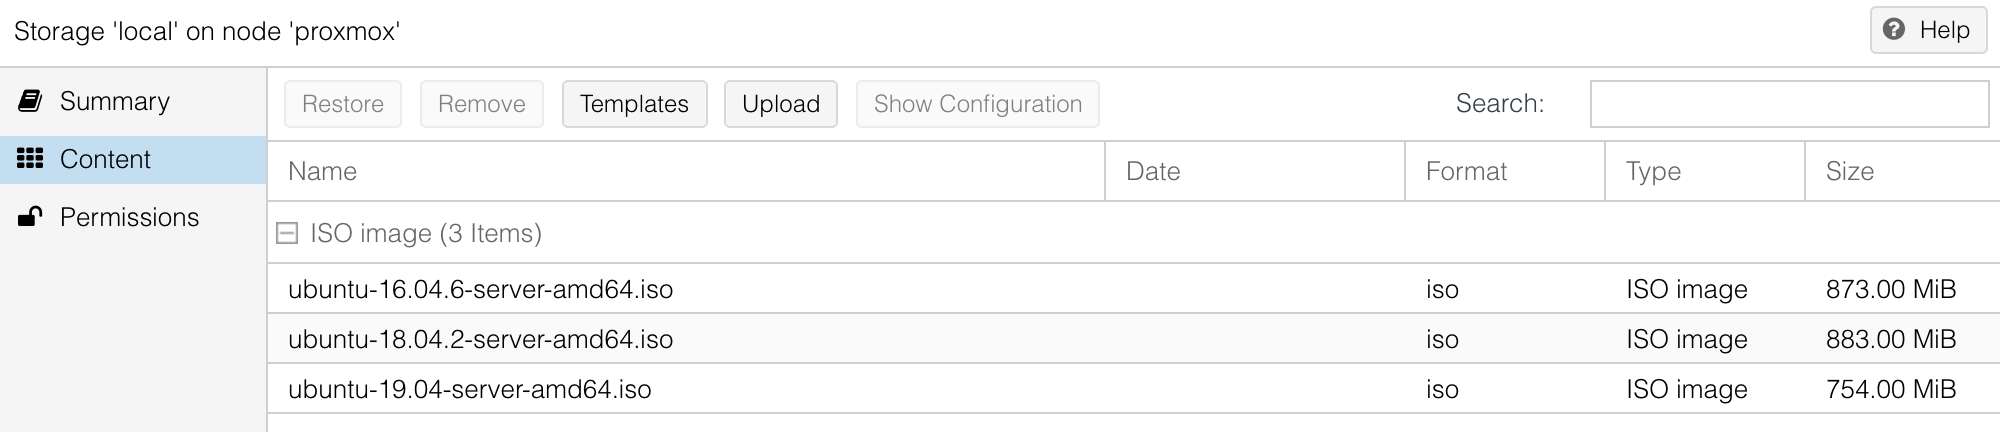
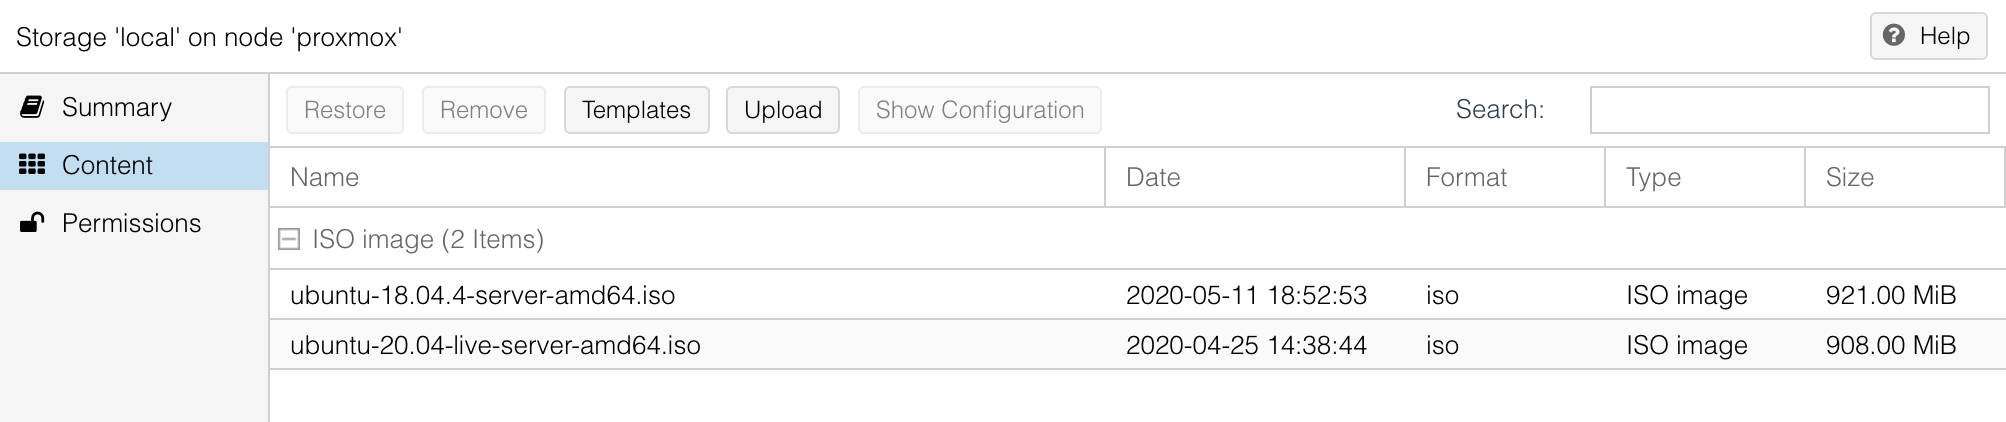
feat(blog): how to setup Ubuntu Server 20.04 article blog

diff --git a/content/posts/ubuntu-server-2004-image-packer-subiquity-for-proxmox.md b/content/posts/ubuntu-server-2004-image-packer-subiquity-for-proxmox.md
@@ -1,0 +1,349 @@
++++
+title = "Ubuntu Server 20.04 image with Packer and Subiquity for Proxmox"
+slug = "ubuntu-server-2004-image-packer-subiquity-for-proxmox"
+date = "2020-05-13T18:31:00+02:00"
+lastmod = "2020-05-13T18:31:00+02:00"
+categories = ["automation"]
+tags = ["ubuntu", "packer", "proxmox"]
++++
+
+Starting with 20.04, Ubuntu decided to update the live server installer to implement the [autoinstall specification](https://wiki.ubuntu.com/FoundationsTeam/AutomatedServerInstalls) to be able to fully automate the install process using only Subiquity. Subiquity is the new server installer (aka "ubiquity for servers") and aims to replace the previous classic system based on debian-installer.
+
+This article illustrates how to generate an Ubuntu Server 20.04 image template using Packer and only Subiquity on Proxmox.
+
+## Introduction
+
+Subiquity is only available in the `live` version of the image file (for instance `ubuntu-20.04-live-server-amd64.iso`). The previous system based on debian-installer (preseed files) has been discontinued and won't work anymore.
+
+{{< alert "info" "feather" >}}
+It's still possible to use debian-installer by downloading the legacy server image that can be found in a dedicated folder `ubuntu-legacy-server` on the official [Ubuntu images repository](http://cdimage.ubuntu.com/ubuntu-legacy-server/releases/20.04/release/).
+{{< /alert >}}
+
+## Subiquity
+
+This new live system is based on cloud-init and uses a YAML file to fully automate the installation process. It differs on several points from the previous system.
+
+- The syntax is much easier to understand (YAML vs debconf-set-selections format).
+- It's possible to have hybrid situations where some sections can be interactive and others answered automatically from the configuration.
+
+![Subiquity setup in Ubuntu Server 20.04](/images/ubuntu/subiquity.png)
+
+## Proxmox
+
+Packer requires a user account to perform actions on the Proxmox API. The following commands will create a new user account `packer@pve` with restricted permissions.
+
+```bash
+$ pveum useradd packer@pve
+$ pveum passwd packer@pve
+Enter new password: ****************
+Retype new password: ****************
+$ pveum roleadd Packer -privs "VM.Config.Disk VM.Config.CPU VM.Config.Memory Datastore.AllocateSpace Sys.Modify VM.Config.Options VM.Allocate VM.Audit VM.Console VM.Config.CDROM VM.Config.Network VM.PowerMgmt VM.Config.HWType VM.Monitor"
+$ pveum aclmod / -user packer@pve -role Packer
+```
+
+{{< alert "info" "at" >}}
+Proxmox `pveum` is available through a SSH connection or from the web shell accessible under the node parameters on the UI.
+{{< /alert >}}
+
+Download the Ubuntu Server 20.04 ISO from [the images repository](http://releases.ubuntu.com/20.04/). At the time of writing, the latest version available was `ubuntu-20.04-live-server-amd64.iso`. Put the ISO inside the `local` storage under the `ISO image` category.
+
+![Local storage in Proxmox](/images/proxmox/storage.png)
+
+## Packer
+
+### Builder configuration
+
+Packer will execute a workflow to create a new template that can be used later on to bootstrap new VMs quickly with a pre-based configuration already applied.
+
+Technically, Packer will start a VM in Proxmox, launch the installer from the boot command with a reference to the config file and convert the VM into a template at the end when the setup has been fully completed.
+
+```json
+{
+  "builders": [{
+    "type": "proxmox",
+    "proxmox_url": "https://proxmox.madalynn.xyz/api2/json",
+    "username": "{{ user `proxmox_username` }}",
+    "password": "{{ user `proxmox_password` }}",
+    "node": "proxmox",
+    "network_adapters": [{
+      "bridge": "vmbr0"
+    }],
+    "disks": [{
+      "type": "scsi",
+      "disk_size": "20G",
+      "storage_pool": "local-lvm",
+      "storage_pool_type": "lvm"
+    }],
+    "iso_file": "local:iso/ubuntu-20.04-live-server-amd64.iso",
+    "unmount_iso": true,
+    "boot_wait": "5s",
+    "memory": 1024,
+    "template_name": "ubuntu-20.04",
+    "http_directory": "http",
+    "boot_command": [
+      "<esc><wait><esc><wait><f6><wait><esc><wait>",
+      "<bs><bs><bs><bs><bs>",
+      "autoinstall ds=nocloud-net;s=http://{{ .HTTPIP }}:{{ .HTTPPort }}/ ",
+      "--- <enter>"
+    ],
+    "ssh_username": "madalynn",
+    "ssh_password": "madalynn"
+  }]
+}
+```
+
+The majority of the parameters are pretty straightforward to understand. Launch Packer with the following command.
+
+```bash
+$ packer build -var-file=secrets.json ubuntu.json
+```
+
+{{< alert "success" "user-secret" >}}
+The `var-file` parameter gives the flexibility to extract secrets (like credentials) and dynamic parameters to use the workflow to build several Ubuntu images. The minimum required should include Proxmox credentials from the user created previously.
+
+```json
+{
+  "proxmox_username": "packer@pve",
+  "proxmox_password": "fQk9f5Wd22aBgv"
+}
+```
+{{< /alert >}}
+
+Packer will start a HTTP server from the content of the `http` directory (with the `http_directory` parameter). This will allow Subiquity to fetch the cloud-init files remotely.
+
+{{< alert "warning" "bomb" >}}
+The live installer Subiquity uses more memory than debian-installer. The default value from Packer (`512M`) is not enough and will lead to weird kernel panic. Use `1G` as a minimum.
+
+```text
+---[ end Kernel panic - not syncing: No working init found.  Try passing init= option to kernel. See Linux Documentation/admin-guide/init.rst for guidance. ]---
+```
+
+![Ubuntu kernel panic](/images/ubuntu/kernel-panic.png)
+{{< /alert >}}
+
+The boot command tells cloud-init to start and uses the `nocloud-net` data source to be able to load the `user-data` and `meta-data` files from a remote HTTP endpoint. The additional `autoinstall` parameter will force Subiquity to perform destructive actions without asking confirmation from the user.
+
+```json
+{
+  ...
+  "boot_command": [
+    "<esc><wait><esc><wait><f6><wait><esc><wait>",
+    "<bs><bs><bs><bs><bs>",
+    "autoinstall ds=nocloud-net;s=http://{{ .HTTPIP }}:{{ .HTTPPort }}/ ",
+    "--- <enter>"
+  ],
+  ...
+}
+```
+
+### Provisioner configuration
+
+Cloud-init will take care of everything else. However, Packer will assume the provisioning is complete as soon as it is able to connect to the virtual machine via SSH. But at this time, the setup process won't be fully done. Packer should be told to wait until cloud-init is fully done.
+
+Technically speaking, the easiest solution is to wait until the `/var/lib/cloud/instance/boot-finished` file is present. Creating this file is the last thing cloud-init does. A bash script with a simple `while` will do the trick.
+
+```json
+{
+  "provisioners": [{
+    "type": "shell",
+    "inline": [
+      "while [ ! -f /var/lib/cloud/instance/boot-finished ]; do echo 'Waiting for cloud-init...'; sleep 1; done"
+    ]
+}
+```
+
+Provisioners will be executed directly on the VM once the SSH connection is available. Packer supports [a lot of provisioners](https://www.packer.io/docs/provisioners/index.html). For instance, it's possible in this step to launch an Ansible playbook or to configure the Chef client.
+
+## Cloud-init
+
+As Subitiquy uses cloud-init, the configuration should be present in two files, `user-data` and `meta-data`. `user-data` is the main config file that Subitiquity and cloud-init will use for the provisioning. `meta-data` is an addition file that can host some additional metadata in the [EC2 metadata service format](https://docs.aws.amazon.com/AWSEC2/latest/UserGuide/ec2-instance-metadata.html).
+
+{{< alert "warning" "hand-paper" >}}
+The `meta-data` file can be empty (and will be for Proxmox) but must be present, otherwise cloud-init will not start correctly.
+{{< /alert >}}
+
+```text
+http
+├── meta-data
+└── user-data
+```
+
+Cloud-init supports multiple formats for config files. YAML is the easiest to understand and will be used for the following snippets. Subiquity adds a new module `autoinstall` which hosts all the configuration necessary for the installation.
+
+```yaml
+#cloud-config
+autoinstall:
+  ...
+```
+
+{{< alert "danger" "exclamation-triangle" >}}
+Unlike a classic cloud-init file, everything must be under the `autoinstall` key. The rest will be ignored.
+{{< /alert >}}
+
+The [official documentation](https://wiki.ubuntu.com/FoundationsTeam/AutomatedServerInstalls) lists all available parameters that can be configured. The scope is reduced compared to what was possible with debian-installer but Subiquity gives the ability to use all other [cloud-init modules](https://cloudinit.readthedocs.io/en/latest/topics/modules.html) to compensate.
+
+{{< alert "info" "tools" >}}
+Under the hood, Subiquity will be able to handle some actions by itself (like partitioning) and will generate a cloud-init config file that will be executed after a reboot for the rest.
+{{< /alert >}}
+
+All "native" cloud-init modules must be under the `user-data` key. For instance, to use the [`write_files` cloud-init module](https://cloudinit.readthedocs.io/en/latest/topics/modules.html#write-files), the following configuration can be used.
+
+```yaml
+#cloud-config
+autoinstall:
+  ...
+  user-data:
+    write_files:
+      - path: /etc/crontab
+        content: |
+          15 * * * * root ship_logs
+        append: true
+    ...
+```
+
+### Autoinstall configuration
+
+Autoinstall is responsible for answering all questions asked during setup (keyboard layout, additional packages, ...). The scope is limited and additional workflows should be managed with cloud-init modules (see above).
+
+
+```yaml
+#cloud-config
+autoinstall:
+  version: 1
+  locale: en_US
+  keyboard:
+    layout: fr
+  ssh:
+    install-server: true
+    allow-pw: true
+  packages:
+    - qemu-guest-agent
+```
+
+The `qemu-guest-agent` package is needed for Packer to detect the IP address of the VM to perform the SSH connection. This will also enable Proxmox to display VM resources directly in the user interface.
+
+![Proxmox VM meta-data](/images/proxmox/vm-metadata.png)
+
+The VM will be configured in English with a French keyboard. The mapping keys correspond to settings in `/etc/default/keyboard`. See [its manual page](http://manpages.ubuntu.com/manpages/focal/en/man5/keyboard.5.html) for more details.
+
+The SSH server is needed for remote connections from Packer. By default, it will try to connect using only a username and a password. This requires enabling the `allow-pw` parameter.
+
+{{< alert "success" "server" >}}
+Without `allow-pw`, the SSH server will only accept connections using certificates. Packer must be configured to do so by using [the `ssh_keypair_name` section](https://www.packer.io/docs/communicators/ssh/#ssh_keypair_name).
+{{< /alert >}}
+
+### Identity
+
+In addition to the previous parameters, Subiquity is also able to create a user account during the provisioning with the `identity` section.
+
+```yaml
+#cloud-config
+autoinstall:
+  identity:
+    hostname: ubuntu
+    username: madalynn
+    password: $6$xyz$1D0kz5pThgRWqxWw6JaZy.6FdkUCSRndc/PMtDr7hMK5mSw7ysChRdlbhkX83PBbNBpqXqef3sBkqGw3Rahs..
+```
+
+This section is also responsible for setting the hostname. As this VM only serves as the basis for the template, this has no importance and should be set during the final provisioning.
+
+The previous block will create an user `madalynn` with `madalynn` as a password.
+
+{{< alert "info" "shield-alt" >}}
+It's possible to generate a unix encrypted password with the following command.
+
+```text
+$ openssl passwd -6 -salt xyz madalynn
+```
+{{< /alert >}}
+
+To have more flexibility over how the account is created, it's possible to use the cloud-init module `users` instead.
+
+```yaml
+#cloud-config
+autoinstall:
+  ...
+  user-data:
+    users:
+      - name: madalynn
+        passwd: $6$xyz$1D0kz5pThgRWqxWw6JaZy.6FdkUCSRndc/PMtDr7hMK5mSw7ysChRdlbhkX83PBbNBpqXqef3sBkqGw3Rahs..
+        groups: [adm, cdrom, dip, plugdev, lxd, sudo]
+        lock-passwd: false
+        sudo: ALL=(ALL) NOPASSWD:ALL
+        shell: /bin/bash
+        ssh_authorized_keys:
+          - ssh-ed25519 AAAAC3NzaC1lZDI1NTE5AAAAIJEXrziuUOCpWPvwOsGuF4K+aq1ufToGMi4ra/1omOZb
+```
+
+This module gives more parameters to configure: groups, shell binary, SSH authorized keys... The `sudo` parameter allows the usage of the `sudo` command without entering any password. This will be useful later to use, for instance, Ansible to complete the installation from the template.
+
+{{< alert "warning" "bullhorn" >}}
+It's not possible to use the cloud-init module `users` and the autoinstall `identity` block at the same time. Subiquity will discard the `users` module configuration if `identity` is present.
+{{< /alert >}}
+
+### Networking
+
+Subiquity allows the usage of two pre-configured layouts, `lvm` and `direct`. By default, Subiquity will use `lvm` with a logical volume of 4G. The installer will not extend the partition to use the full capability of the volume group. It's also possible to configure the size of the swapfile on the filesystem (`0` to disable).
+
+```yaml
+#cloud-config
+autoinstall:
+  ...
+  storage:
+    layout:
+      name: direct
+    swap:
+      size: 0
+```
+
+If `direct` is used, a single partition `/dev/sda2` will be created using the full disk.
+
+```text
+Filesystem                           Size  Used Avail Use% Mounted on
+udev                                 1.9G     0  1.9G   0% /dev
+tmpfs                                394M  696K  393M   1% /run
+/dev/sda2                             20G  3.6G   15G  20% /
+tmpfs                                2.0G     0  2.0G   0% /dev/shm
+tmpfs                                5.0M     0  5.0M   0% /run/lock
+tmpfs                                2.0G     0  2.0G   0% /sys/fs/cgroup
+```
+
+It's also possible to use a more complex configuration based on [curtin](https://curtin.readthedocs.io/en/latest/topics/storage.html) under the `config` key. This will be a requirement if the VM has more than one disk (pre-configured layouts won't work in this situation).
+
+```yaml
+#cloud-config
+autoinstall:
+  ...
+  storage:
+    config:
+      - type: disk
+        id: root-disk
+        size: largest
+      - type: partition
+        id: boot-partition
+        device: root-disk
+        size: 10%
+      - type: partition
+        id: root-partition
+        size: 20G
+      - type: partition
+        id: data-partition
+        device: root-disk
+        size: -1
+```
+
+The previous configuration will create three partitions on the largest drive.
+
+- 10% for the boot partition.
+- 20G for the root partition.
+- The rest for the data partition.
+
+These are the first steps to a custom layout. However, it's not enough and will require other steps (format, mount, ...).
+
+{{< alert "warning" "random" >}}
+If a pre-configured layout is used, the custom config will be ignored.
+{{< /alert >}}
+
+## GitHub
+
+The full configuration is available on GitHub in the [aerialls/madalynn-packer](https://github.com/aerialls/madalynn-packer) repository.

diff --git a/content/posts/ubuntu-server-1804-image-packer-preseeding-for-proxmox.md b/content/posts/ubuntu-server-1804-image-packer-preseeding-for-proxmox.md
@@ -2,14 +2,14 @@
 title = "Ubuntu Server 18.04 image with Packer and preseeding for Proxmox"
 slug = "ubuntu-server-1804-image-packer-preseeding-for-proxmox"
 date = "2019-12-15T19:15:00+01:00"
-lastmod = "2020-05-13T18:26:00+02:00"
+lastmod = "2020-05-13T18:36:00+02:00"
 categories = ["automation"]
 tags = ["ubuntu", "packer", "proxmox", "ansible"]
 aliases = ["/posts/ubuntu-image-with-packer-and-ansible-for-proxmox/"]
 +++
 
 {{< alert "info" "question" >}}
-Even if the article focuses on Ubuntu Server 18.04, it has been tested successfully for Ubuntu Server 19.04 and Ubuntu Server 19.10.
+Even if the article focuses on Ubuntu Server 18.04, it has been tested successfully for Ubuntu Server 19.04 and Ubuntu Server 19.10. For Ubuntu Server 20.04, [another post]({{< relref "ubuntu-server-2004-image-packer-subiquity-for-proxmox.md" >}}) covers this topic.
 {{< /alert >}}
 
 If you read my previous post, time has passed since then. I have ditched my Raspberry Pi 3B+ and Hassbian for a dedicated Intel NUC with Proxmox and Hass.io [^1]. But this is not the subject of this post.
